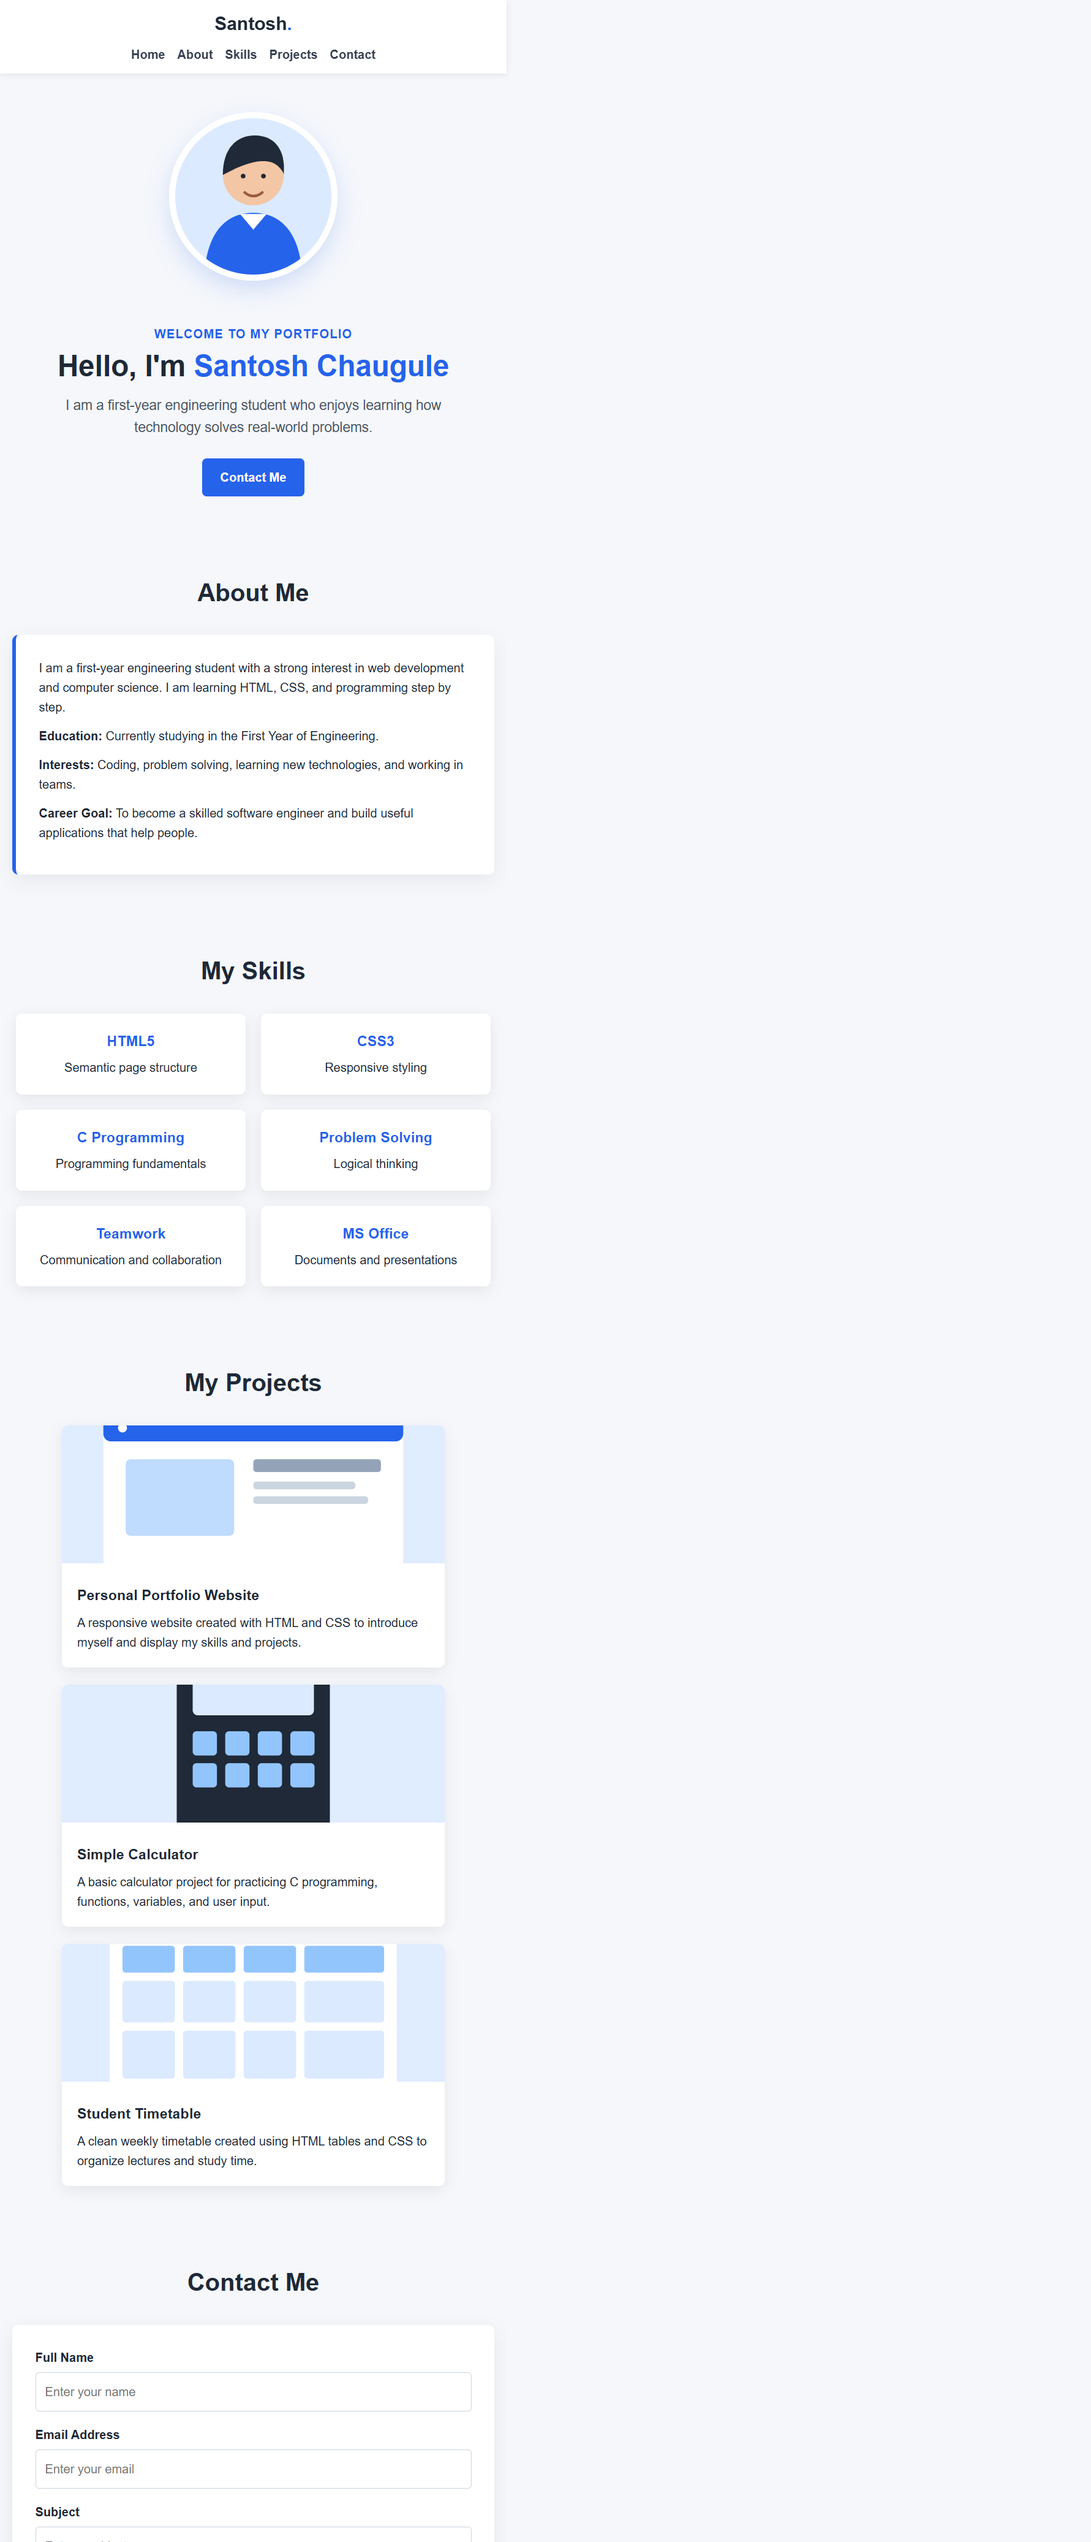
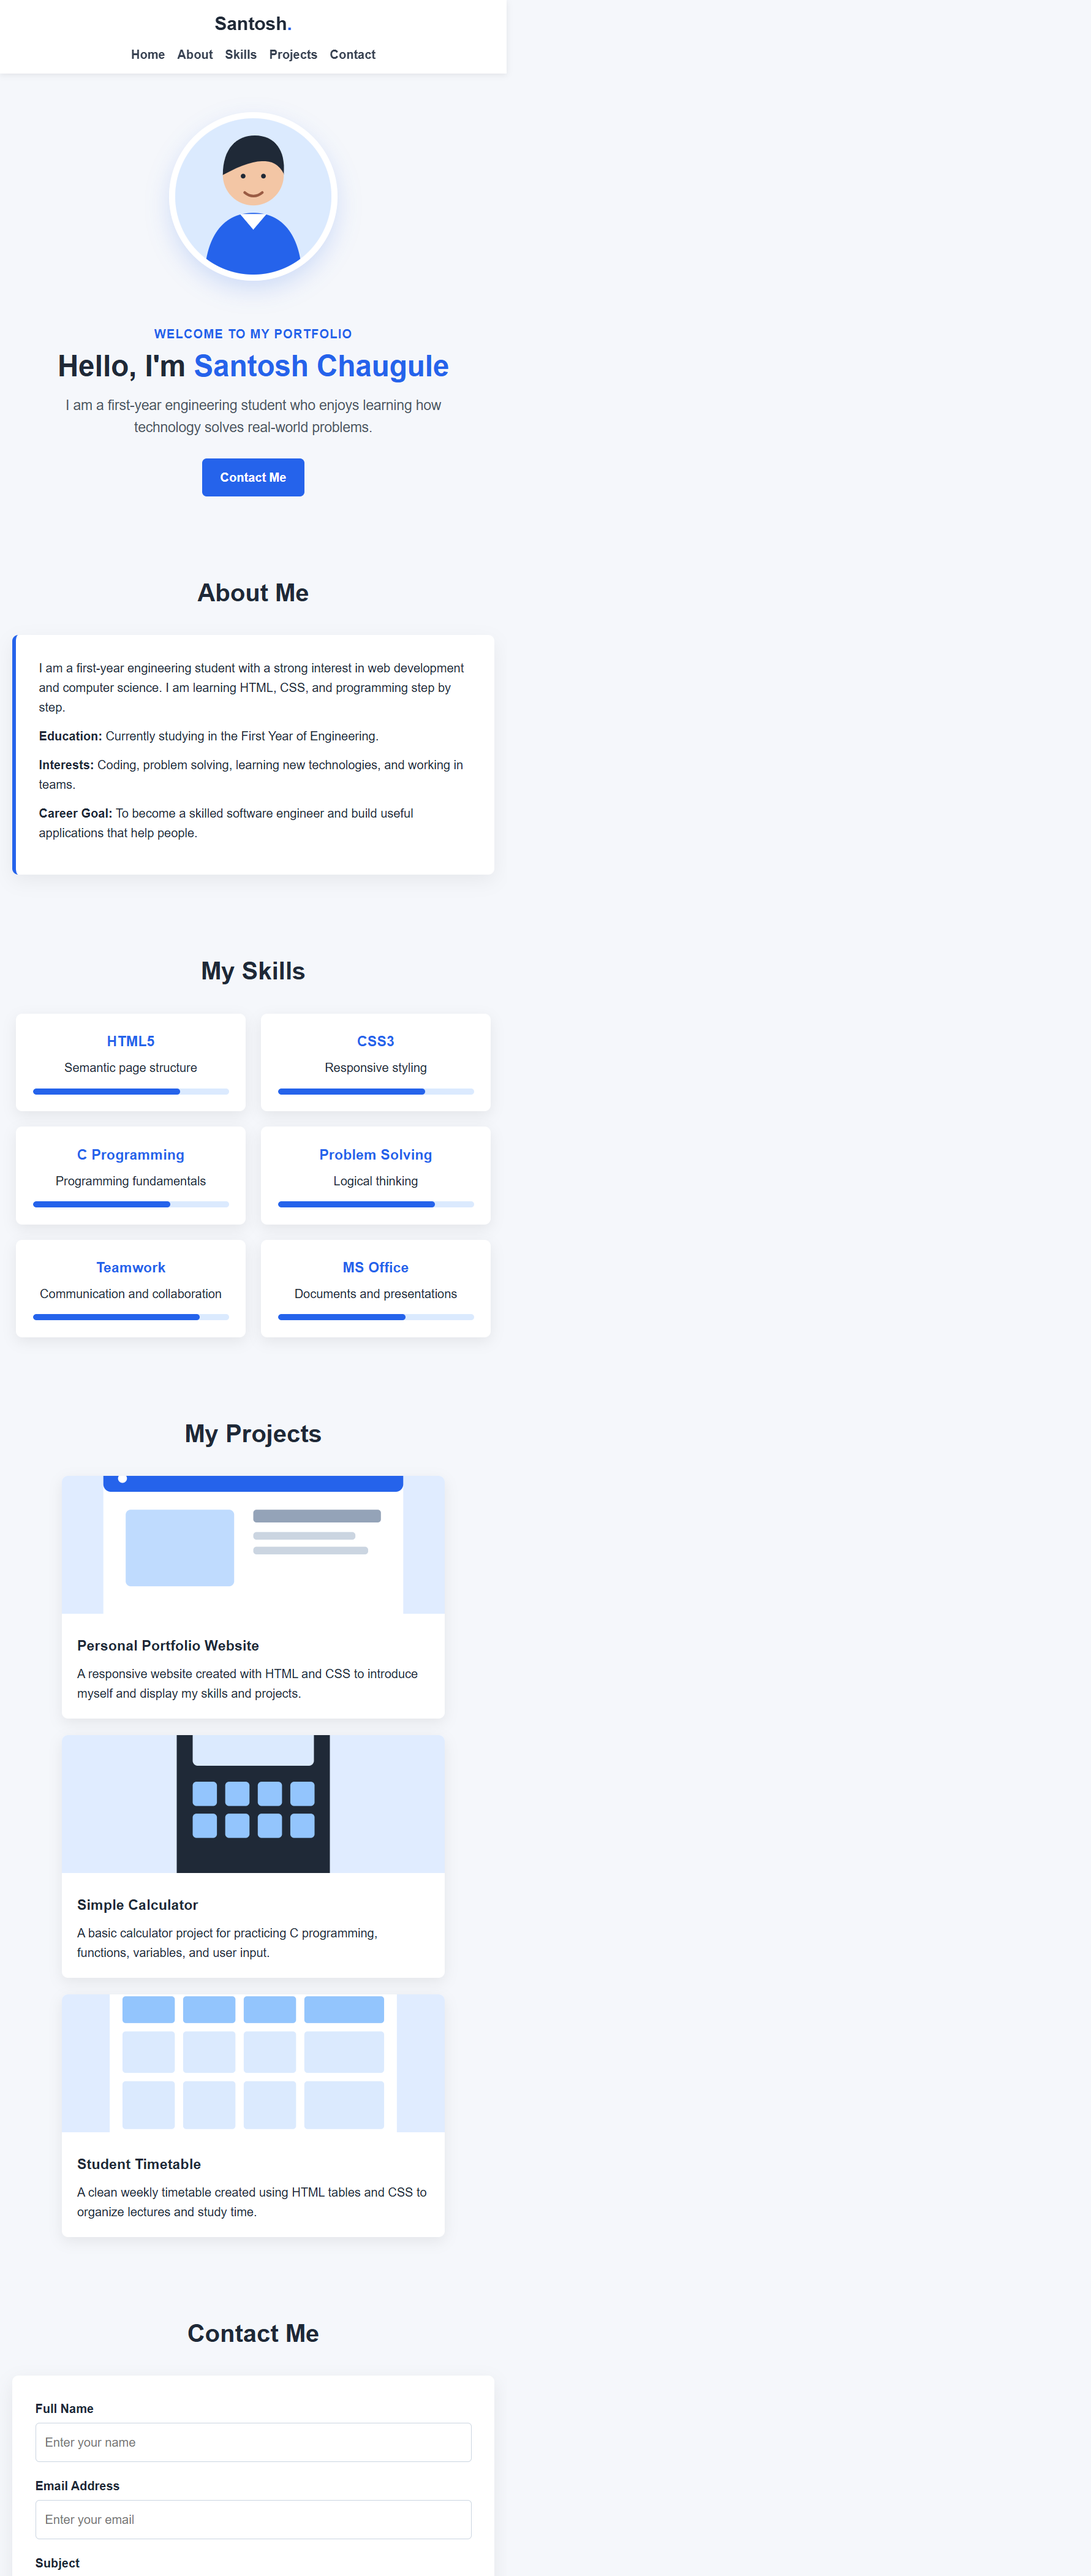
Improve portfolio and assignment test readiness

diff --git a/index.html b/index.html
@@ -67,26 +67,32 @@
                 <article class="skill-card">
                     <h3>HTML5</h3>
                     <p>Semantic page structure</p>
+                    <div class="skill-level"><span class="level-75"></span></div>
                 </article>
                 <article class="skill-card">
                     <h3>CSS3</h3>
                     <p>Responsive styling</p>
+                    <div class="skill-level"><span class="level-75"></span></div>
                 </article>
                 <article class="skill-card">
                     <h3>C Programming</h3>
                     <p>Programming fundamentals</p>
+                    <div class="skill-level"><span class="level-70"></span></div>
                 </article>
                 <article class="skill-card">
                     <h3>Problem Solving</h3>
                     <p>Logical thinking</p>
+                    <div class="skill-level"><span class="level-80"></span></div>
                 </article>
                 <article class="skill-card">
                     <h3>Teamwork</h3>
                     <p>Communication and collaboration</p>
+                    <div class="skill-level"><span class="level-85"></span></div>
                 </article>
                 <article class="skill-card">
                     <h3>MS Office</h3>
                     <p>Documents and presentations</p>
+                    <div class="skill-level"><span class="level-65"></span></div>
                 </article>
             </div>
         </section>
@@ -162,7 +168,6 @@
         <div class="social-links">
             <a href="https://www.linkedin.com/" target="_blank" rel="noopener noreferrer">LinkedIn</a>
             <a href="https://github.com/" target="_blank" rel="noopener noreferrer">GitHub</a>
-            <a href="mailto:santosh@example.com">Email</a>
         </div>
     </footer>
 </body>

diff --git a/style.css b/style.css
@@ -177,6 +177,41 @@ h2 {
     margin-bottom: 6px;
 }
 
+.skill-level {
+    height: 8px;
+    margin-top: 14px;
+    overflow: hidden;
+    border-radius: 10px;
+    background-color: #dbeafe;
+}
+
+.skill-level span {
+    display: block;
+    height: 100%;
+    border-radius: 10px;
+    background-color: #2563eb;
+}
+
+.level-65 {
+    width: 65%;
+}
+
+.level-70 {
+    width: 70%;
+}
+
+.level-75 {
+    width: 75%;
+}
+
+.level-80 {
+    width: 80%;
+}
+
+.level-85 {
+    width: 85%;
+}
+
 .projects-grid {
     display: grid;
     grid-template-columns: repeat(3, 1fr);

diff --git a/README.md b/README.md
@@ -15,5 +15,5 @@ Open `index.html` in a browser, or use VS Code Live Server.
 
 ## Personalize
 
-Replace the example email in `index.html` and update the LinkedIn and GitHub
-links with your real profile URLs.
+Update the LinkedIn and GitHub links in `index.html` with your real profile
+URLs before submitting the assignment.
